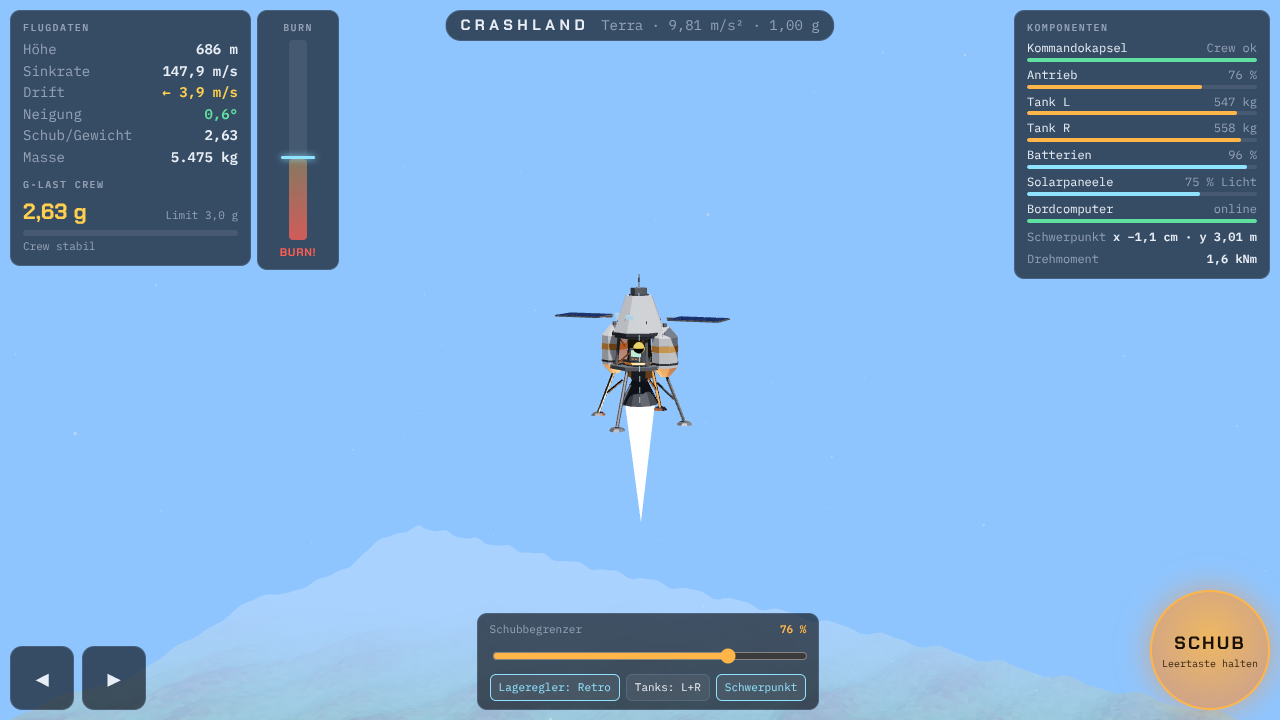
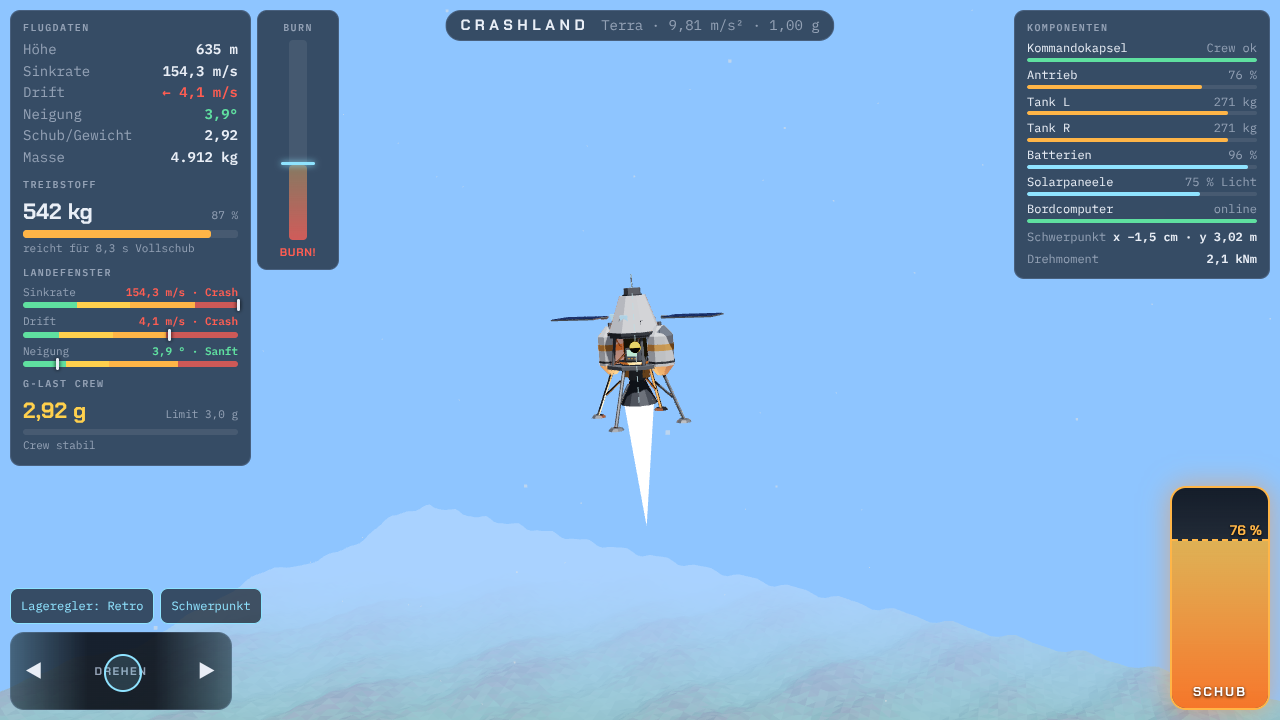
Fuel gauge in the flight panel, per-mission fuel load, remove tank valves
- Fuel amount, percentage and remaining full-thrust seconds always visible
  (also on phones), warning below 12 %
- Each planet loads its own fuel so a clean suicide burn leaves ~20-25 %
  reserve (was 55-87 %); balanced with the node flight-model sim
- Tanks drain evenly; the L/R valve toggle had no gameplay purpose
- Landscape phone layout: two-column flight panel

Claude-Session: https://claude.ai/code/session_01QStA4257P6PGfjBjXrtENg

diff --git a/src/sim.js b/src/sim.js
@@ -7,7 +7,7 @@ export const ISP = 290;           // s
 export const RCS_TORQUE = 14000;  // N·m
 export const G_LIMIT = 3.0;       // crew limit (sustained)
 export const BAT_CAP = 100;       // %
-export const FUEL_MAX = 600;     // kg per tank
+export const FUEL_MAX = 600;     // kg capacity per tank (each mission loads planet.fuel in total)
 export const FOOT_X = 2.0;        // m, half span of landing legs
 // Touchdown window: upper bounds for grade 0 (sanft), 1 (hart), 2 (Fahrwerk beschädigt); above = crash.
 export const LAND = { vy: [2.5, 5, 8], vx: [1, 2.5, 4], tilt: [5, 10, 18] };
@@ -24,16 +24,16 @@ export function grade(value, limits) {
 }
 
 export const PLANETS = [
-  { id: 'luna', name: 'Luna', g: 1.62, alt: 900, vy: -60, vx: 3, tilt: 2, solar: 1.0,
+  { id: 'luna', name: 'Luna', g: 1.62, alt: 900, vy: -60, vx: 3, tilt: 2, solar: 1.0, fuel: 175,
     text: 'Geringe Schwerkraft. Viel Zeit, wenig Risiko. Gut zum Üben.',
     sky: 0x05060c, fog: 0x05060c, ground: 0x9b9a96, ground2: 0x6c6b68, sun: 0xffffff, stars: true },
-  { id: 'mars', name: 'Mars', g: 3.71, alt: 1200, vy: -95, vx: -4, tilt: -3, solar: 0.45,
+  { id: 'mars', name: 'Mars', g: 3.71, alt: 1200, vy: -95, vx: -4, tilt: -3, solar: 0.45, fuel: 305,
     text: 'Mittlere Schwerkraft, schwache Sonne. Auf die Batterie achten.',
     sky: 0xd4a27c, fog: 0xc89670, ground: 0xb4552f, ground2: 0x7d3a22, sun: 0xffe2c4 },
-  { id: 'terra', name: 'Terra', g: 9.81, alt: 1600, vy: -140, vx: 5, tilt: 4, solar: 0.75,
+  { id: 'terra', name: 'Terra', g: 9.81, alt: 1600, vy: -140, vx: 5, tilt: 4, solar: 0.75, fuel: 620,
     text: 'Volle Erdschwerkraft. Der Burn muss sitzen, die G-Last steigt schnell.',
     sky: 0x8ec5ff, fog: 0xa9d2ff, ground: 0x5f9a4c, ground2: 0x7a6145, sun: 0xffffff },
-  { id: 'brontes', name: 'Brontes', g: 15.2, alt: 1800, vy: -120, vx: -3, tilt: -2, solar: 0.3,
+  { id: 'brontes', name: 'Brontes', g: 15.2, alt: 1800, vy: -120, vx: -3, tilt: -2, solar: 0.3, fuel: 880,
     text: 'Supererde. Kaum Schubreserve, wenig Licht. Nur für Profis.',
     sky: 0x3b2f5c, fog: 0x463868, ground: 0x2f6e6a, ground2: 0x1f4442, sun: 0xd8c8ff },
 ];
@@ -72,8 +72,8 @@ export function createState(planet) {
     planet, t: 0,
     x: 0, y: planet.alt, vx: planet.vx, vy: planet.vy,
     a: (planet.tilt * Math.PI) / 180, w: 0,
-    fuelL: FUEL_MAX, fuelR: FUEL_MAX, battery: BAT_CAP,
-    limit: 1, throttle: 0, sas: 'retro', feed: 'LR',
+    fuel0: planet.fuel, fuelL: planet.fuel / 2, fuelR: planet.fuel / 2, battery: BAT_CAP,
+    limit: 1, throttle: 0, sas: 'retro',
     gNow: 0, maxG: 0, gStress: 0, gOverTime: 0, powered: true, blackout: false,
     torqueCom: 0, sasTorque: 0,
     status: 'flying', reason: '', touch: null, log: [],
@@ -129,16 +129,12 @@ export function step(s, input, dt) {
   if (!s.powered) thr = Math.min(thr, 0.6); // pumps off -> pressure-fed only
   if (fuel(s) <= 0) thr = 0;
   const mdot = (thr * F_MAX) / (ISP * G0);
-  let need = mdot * dt;
-  let shareL = s.feed === 'L' ? 1 : s.feed === 'R' ? 0 : 0.56; // valve R sticks a little
-  const takeL = Math.min(s.fuelL, need * shareL);
+  // both tanks feed the engine evenly; if one runs dry the other takes over
+  const need = mdot * dt;
+  const takeL = Math.min(s.fuelL, need / 2 + Math.max(0, need / 2 - s.fuelR));
   const takeR = Math.min(s.fuelR, need - takeL);
-  const rest = need - takeL - takeR;
-  s.fuelL -= takeL + Math.min(s.fuelL - takeL, rest);
-  s.fuelR -= takeR;
-  s.fuelL = Math.max(0, s.fuelL); s.fuelR = Math.max(0, s.fuelR);
-  if (s.feed === 'R' && s.fuelR <= 0) s.feed = 'LR';
-  if (s.feed === 'L' && s.fuelL <= 0) s.feed = 'LR';
+  s.fuelL = Math.max(0, s.fuelL - takeL);
+  s.fuelR = Math.max(0, s.fuelR - takeR);
   s.throttle = thr;
 
   const { m, cx, I } = massProps(s);

diff --git a/src/hud.js b/src/hud.js
@@ -74,6 +74,17 @@ export function createHud() {
     st.style.background = s.gStress > 0.6 ? 'var(--bad)' : 'var(--warn)';
     $('v-stress').textContent = s.blackout ? 'Crew bewusstlos' : s.gStress > 0 ? `Belastung ${fmt(s.gStress * 100)} %` : 'Crew stabil';
 
+    // fuel: amount and how long it lasts at full thrust
+    const fuelNow = S.fuel(s), fuelFrac = fuelNow / s.fuel0;
+    const fullBurn = fuelNow / (S.F_MAX / (S.ISP * S.G0));
+    const vf = $('v-fuel'); vf.textContent = `${fmt(fuelNow)} kg`;
+    cls(vf, `big ${fuelFrac < 0.1 ? 'bad' : fuelFrac < 0.25 ? 'warn' : ''}`);
+    $('v-fuelpct').textContent = `${fmt(fuelFrac * 100)} %`;
+    $('v-burntime').textContent = `reicht für ${fmt(fullBurn, 1)} s Vollschub`;
+    const bf = $('b-fuel');
+    bf.style.width = `${fuelFrac * 100}%`;
+    bf.style.background = fuelFrac < 0.1 ? 'var(--bad)' : fuelFrac < 0.25 ? 'var(--warn)' : 'var(--amber)';
+
     // burn gauge: altitude vs stopping distance on one scale
     const d = S.stoppingDistance(s);
     const scale = Math.max(p.alt, alt) * 1.05;
@@ -96,9 +107,10 @@ export function createHud() {
     // components
     setRow('capsule', s.blackout ? 'Blackout' : 'Crew ok', 1 - Math.min(1, s.gStress), s.gStress > 0.6 ? 'var(--bad)' : 'var(--ok)');
     setRow('engine', `${fmt(s.throttle * 100)} %`, s.throttle, 'var(--amber)');
-    const fc = (f) => (f / S.FUEL_MAX < 0.2 ? 'var(--bad)' : 'var(--amber)');
-    setRow('tankL', `${fmt(s.fuelL)} kg`, s.fuelL / S.FUEL_MAX, fc(s.fuelL));
-    setRow('tankR', `${fmt(s.fuelR)} kg`, s.fuelR / S.FUEL_MAX, fc(s.fuelR));
+    const half = s.fuel0 / 2;
+    const fc = (f) => (f / half < 0.2 ? 'var(--bad)' : 'var(--amber)');
+    setRow('tankL', `${fmt(s.fuelL)} kg`, s.fuelL / half, fc(s.fuelL));
+    setRow('tankR', `${fmt(s.fuelR)} kg`, s.fuelR / half, fc(s.fuelR));
     setRow('battery', `${fmt(s.battery)} %`, s.battery / S.BAT_CAP, s.battery < 20 ? 'var(--bad)' : 'var(--cyan)');
     setRow('solar', `${fmt(p.solar * 100)} % Licht`, p.solar, 'var(--cyan)');
     setRow('computer', s.powered ? 'online' : 'offline', s.powered ? 1 : 0, 'var(--ok)');
@@ -116,8 +128,6 @@ export function createHud() {
     const sas = $('c-sas');
     sas.textContent = `Lageregler: ${{ retro: 'Retro', up: 'Senkrecht', off: 'Aus' }[s.sas || 'off']}`;
     sas.classList.toggle('on', !!s.sas);
-    $('c-feed').textContent = `Tanks: ${{ LR: 'L+R', L: 'nur L', R: 'nur R' }[s.feed]}`;
-    $('c-feed').classList.toggle('on', s.feed !== 'LR');
     lever.classList.toggle('on', s.throttle > 0);
     const rcs = $('c-rcs');
     rcs.classList.toggle('on', input.rcs !== 0);
@@ -129,6 +139,7 @@ export function createHud() {
     if (s.blackout) msg = 'BLACKOUT – CREW BEWUSSTLOS';
     else if (s.gNow > S.G_LIMIT) msg = 'G-LAST ZU HOCH – SCHUB DROSSELN';
     else if (S.fuel(s) <= 0) msg = 'TREIBSTOFF LEER';
+    else if (fuelFrac < 0.12 && s.throttle > 0) { msg = 'TREIBSTOFF KNAPP'; color = 'var(--warn)'; pulse = false; }
     else if (!s.powered) { msg = 'BATTERIE LEER – PUMPEN AUS, MAX. 60 % SCHUB'; color = 'var(--warn)'; }
     else if (alt < 40 && s.vy < -0.3) {
       const worst = Math.max(gr.vy, gr.vx, gr.tilt);

diff --git a/src/main.js b/src/main.js
@@ -48,7 +48,7 @@ function buildMenu() {
     const sky = '#' + new THREE.Color(p.ground).getHexString(), sky2 = '#' + new THREE.Color(p.ground2).getHexString();
     b.innerHTML = `<span class="orb" style="background: radial-gradient(circle at 35% 30%, ${sky}, ${sky2} 70%)"></span>
       <b>${p.name}</b><span class="g">${p.g.toLocaleString('de-DE')} m/s² · ${(p.g / S.G0).toLocaleString('de-DE', { maximumFractionDigits: 2 })} g</span>
-      <p>${p.text}</p><p>Start: ${p.alt} m · ${-p.vy} m/s</p>
+      <p>${p.text}</p><p>Start: ${p.alt} m · ${-p.vy} m/s<br>Treibstoff: ${p.fuel} kg</p>
       <span class="best">${rec ? `Bestwert: ${'★'.repeat(rec.stars)}${'☆'.repeat(3 - rec.stars)} · ${rec.score} Punkte` : ''}</span>`;
     b.addEventListener('click', () => start(p));
     wrap.append(b);
@@ -86,7 +86,7 @@ function start(p) {
 
 function rate(st) {
   if (st.status !== 'landed') return { stars: 0, score: 0 };
-  const fuelPct = S.fuel(st) / (2 * S.FUEL_MAX);
+  const fuelPct = S.fuel(st) / st.fuel0;
   let stars = 3 - st.touch.grade;
   if (st.gOverTime >= 0.5 || fuelPct < 0.1) stars--;
   stars = Math.max(1, stars);
@@ -119,7 +119,7 @@ function showResult() {
     ['Aufsetzen', `${f1(s.touch.vy)} m/s · ${S.GRADES[s.touch.grades.vy].name}`],
     ['Drift', `${f1(s.touch.vx)} m/s · ${S.GRADES[s.touch.grades.vx].name}`],
     ['Neigung', `${f1(s.touch.tilt)}° · ${S.GRADES[s.touch.grades.tilt].name}`],
-    ['Treibstoff übrig', `${Math.round(S.fuel(s))} kg (${Math.round((S.fuel(s) / (2 * S.FUEL_MAX)) * 100)} %)`],
+    ['Treibstoff übrig', `${Math.round(S.fuel(s))} kg (${Math.round((S.fuel(s) / s.fuel0) * 100)} %)`],
     ['Max. G-Last', `${f1(s.maxG)} g${s.gOverTime > 0.5 ? ` · ${f1(s.gOverTime)} s über Limit` : ''}`],
     ['Batterie', `${Math.round(s.battery)} %`],
     ['Flugzeit', `${f1(s.t)} s`],
@@ -142,7 +142,6 @@ addEventListener('keydown', (e) => {
   if ((e.code === 'KeyM' || e.code === 'Escape') && mode !== 'menu') showMenu();
   if (mode !== 'flight') return;
   if (e.code === 'KeyT') cycleSas();
-  if (e.code === 'KeyF') cycleFeed();
   if (e.code === 'KeyC') toggleCom();
 });
 addEventListener('keyup', (e) => keys.delete(e.code));
@@ -178,10 +177,8 @@ bindPointer($('c-rcs'), (e, r) => {
   touch.rcs = Math.abs(dx) < 0.12 ? 0 : Math.max(-1, Math.min(1, (dx - Math.sign(dx) * 0.12) / 0.7));
 }, () => { touch.rcs = 0; });
 function cycleSas() { s.sas = { retro: 'up', up: false }[s.sas] ?? 'retro'; }
-function cycleFeed() { s.feed = { LR: 'L', L: 'R', R: 'LR' }[s.feed]; }
 function toggleCom() { showCom = !showCom; ship.helpers.visible = showCom; $('c-com').classList.toggle('on', showCom); }
 $('c-sas').addEventListener('click', cycleSas);
-$('c-feed').addEventListener('click', cycleFeed);
 $('c-com').addEventListener('click', toggleCom);
 $('c-com').classList.add('on');
 $('r-again').addEventListener('click', () => start(planet));

diff --git a/index.html b/index.html
@@ -18,6 +18,7 @@
     <div id="alert" hidden></div>
 
     <section id="flight" class="panel" aria-label="Flugdaten">
+      <div class="col-a">
       <h2>Flugdaten</h2>
       <dl>
         <dt>Höhe</dt><dd id="v-alt"></dd>
@@ -27,12 +28,19 @@
         <dt>Schub/Gewicht</dt><dd id="v-twr"></dd>
         <dt>Masse</dt><dd id="v-mass"></dd>
       </dl>
+      <h2>Treibstoff</h2>
+      <div class="gline"><span id="v-fuel" class="big"></span><span id="v-fuelpct" class="lim"></span></div>
+      <div class="bar fuel"><i id="b-fuel"></i></div>
+      <small id="v-burntime" class="burntime"></small>
+      </div>
+      <div class="col-b">
       <h2>Landefenster</h2>
       <div id="landing"></div>
       <h2>G-Last Crew</h2>
       <div class="gline"><span id="v-g" class="big"></span><span class="lim">Limit 3,0 g</span></div>
       <div class="bar"><i id="b-stress"></i></div>
       <small id="v-stress"></small>
+      </div>
     </section>
 
     <section id="burn" class="panel" aria-label="Suicide-Burn-Anzeige">
@@ -52,7 +60,6 @@
       <div class="left">
         <div class="toggles">
           <button id="c-sas" class="tog"></button>
-          <button id="c-feed" class="tog"></button>
           <button id="c-com" class="tog">Schwerpunkt</button>
         </div>
         <div id="c-rcs" class="rcs" role="slider" aria-label="Drehen: links oder rechts auf das Feld drücken" aria-valuemin="-100" aria-valuemax="100" aria-valuenow="0">
@@ -74,7 +81,7 @@
       <div id="planets"></div>
       <div id="window-info"></div>
       <p class="keys touch-hint">Touch: <b>Schubhebel</b> rechts drücken und hoch/runter ziehen (oben = 100 %) · <b>Drehfeld</b> links: weiter außen drücken = stärker drehen · Kamera: auf der Szene wischen</p>
-      <p class="keys key-hint"><kbd>Leertaste</kbd> Schub · <kbd>W</kbd>/<kbd>S</kbd> Schubbegrenzer · <kbd>A</kbd>/<kbd>D</kbd> drehen · <kbd>T</kbd> Lageregler · <kbd>F</kbd> Tankventile · <kbd>C</kbd> Schwerpunkt · <kbd>R</kbd> Neustart · <kbd>M</kbd> Menü</p>
+      <p class="keys key-hint"><kbd>Leertaste</kbd> Schub · <kbd>W</kbd>/<kbd>S</kbd> Schubbegrenzer · <kbd>A</kbd>/<kbd>D</kbd> drehen · <kbd>T</kbd> Lageregler · <kbd>C</kbd> Schwerpunkt · <kbd>R</kbd> Neustart · <kbd>M</kbd> Menü</p>
     </div>
   </div>
 

diff --git a/src/style.css b/src/style.css
@@ -24,12 +24,14 @@ kbd { font: 600 11px var(--mono); border: 1px solid var(--glass-edge); border-bo
 #hud > * { pointer-events: auto; }
 .panel { position: absolute; background: var(--glass); border: 1px solid var(--glass-edge); border-radius: 10px; padding: 10px 12px; backdrop-filter: blur(6px); }
 .panel h2 { margin: 0 0 6px; font: 600 10px var(--mono); letter-spacing: 0.14em; text-transform: uppercase; color: var(--mute); }
-.panel h2:not(:first-child) { margin-top: 10px; }
+.panel h2:not(:first-child), .col-b > h2:first-child { margin-top: 10px; }
 dl { display: grid; grid-template-columns: auto auto; gap: 2px 14px; margin: 0; }
 dt { color: var(--mute); }
 dd { margin: 0; text-align: right; font-variant-numeric: tabular-nums; font-weight: 600; }
 .big { font: 700 22px var(--display); font-variant-numeric: tabular-nums; }
 .bar { height: 6px; background: rgba(255,255,255,0.08); border-radius: 3px; overflow: hidden; }
+.bar.fuel { height: 8px; }
+.burntime { display: block; margin-top: 3px; }
 .bar i { display: block; height: 100%; width: 0; background: var(--ok); border-radius: 3px; }
 small { color: var(--mute); font-size: 11px; }
 .ok { color: var(--ok); } .warn { color: var(--warn); } .bad { color: var(--bad); }
@@ -133,9 +135,14 @@ h1 { margin: 4px 0 10px; font: 700 clamp(36px, 7vw, 64px)/1 var(--display); lett
 /* phone landscape: short screen */
 @media (max-height: 520px) {
   #controls { --lever-w: 84px; --lever-h: min(170px, calc(100vh - 150px)); --rcs-w: 210px; --rcs-h: 70px; }
-  #flight .gline + .bar, #flight small { display: none; }
+  #flight .gline + .bar:not(.fuel), #flight small:not(.burntime) { display: none; }
   #burn-gauge { height: 90px; }
-  .left { flex-direction: column-reverse; }
+  .left { flex-direction: row; align-items: flex-end; }
+  #flight { display: grid; grid-template-columns: 1fr 1fr; column-gap: 16px; width: 380px; }
+  #flight .col-b > h2:first-child { margin-top: 0; }
+  #burn { left: calc(max(10px, env(safe-area-inset-left, 0px)) + 412px); }
+  .toggles { flex-direction: column; }
+  #landing { gap: 3px; }
 }
 @media (prefers-reduced-motion: reduce) { #alert.pulse { animation: none; } .planet { transition: none; } }
 

diff --git a/src/debris.js b/src/debris.js
@@ -82,7 +82,7 @@ export function createDebris(scene) {
     ship.helpers.visible = false;
 
     // fireball + flash scale with impact energy and the fuel still on board
-    const fuelFrac = (s.fuelL + s.fuelR) / 1200;
+    const fuelFrac = Math.min(1, (s.fuelL + s.fuelR) / 900);
     const boom = e * (0.4 + 0.6 * fuelFrac);
     if (boom > 0.3) {
       const ball = new THREE.Mesh(new THREE.IcosahedronGeometry(1, 1), new THREE.MeshBasicMaterial({ color: 0xff7a20, transparent: true, blending: THREE.AdditiveBlending, depthWrite: false }));

diff --git a/README.md b/README.md
@@ -8,9 +8,9 @@ Low-poly lander game in the browser: **Three.js** (rendering), **cannon-es** (cr
 
 Your lander falls toward a planet without power. Light the main engine as late as possible and only as long as needed: the **suicide burn**. Along the way:
 
-- **Fuel**: two tanks (600 kg each). Mass drops during the burn, so the thrust-to-weight ratio rises.
+- **Fuel**: loaded per mission (Luna 175 kg, Mars 305, Terra 620, Brontes 880), so that a clean suicide burn leaves about 20–25 % reserve. Burning early, hovering or correcting drift eats into that. Both tanks drain evenly; the mass drops during the burn, so the thrust-to-weight ratio rises.
 - **G-load**: the crew tolerates 3.0 g. Above that, strain builds up until blackout (controls dead → crash). Late in the burn, with nearly empty tanks, full thrust exceeds the limit, so throttle back.
-- **Centre of mass**: computed live from all components. Valve R sticks slightly, so tank L drains faster and the centre of mass drifts. Thrust off the centre of mass creates torque. You can switch the tank valves (L+R / L only / R only) to rebalance.
+- **Centre of mass**: computed live from all components (marker + thrust axis in 3D). If it sits off the thrust axis, the engine creates torque that attitude control has to compensate.
 - **Power**: the battery feeds the flight computer, attitude control and the fuel pumps. Solar panels recharge depending on planet. Empty battery → computer offline, pumps off, max. 60 % thrust.
 - **Planets**: Luna (1.62 m/s²), Mars (3.71), Terra (9.81), Brontes (15.2: super-Earth, little thrust reserve).
 
@@ -33,7 +33,6 @@ On a crash the ship breaks into its components; the explosion scales with impact
 | W / S, ↑ / ↓ | throttle lever | Thrust limiter |
 | A / D, ← / → | **Rotate pad** (left): press left/right of centre, further out = stronger | Rotate (RCS), analog |
 | T | Lageregler | Attitude control: Retro (leans against drift) / Vertical / Off |
-| F | Tanks | Tank valves L+R / L only / R only |
 | C | Schwerpunkt | Show centre of mass and thrust axis |
 | R / M | buttons | Restart / planet select |
 
